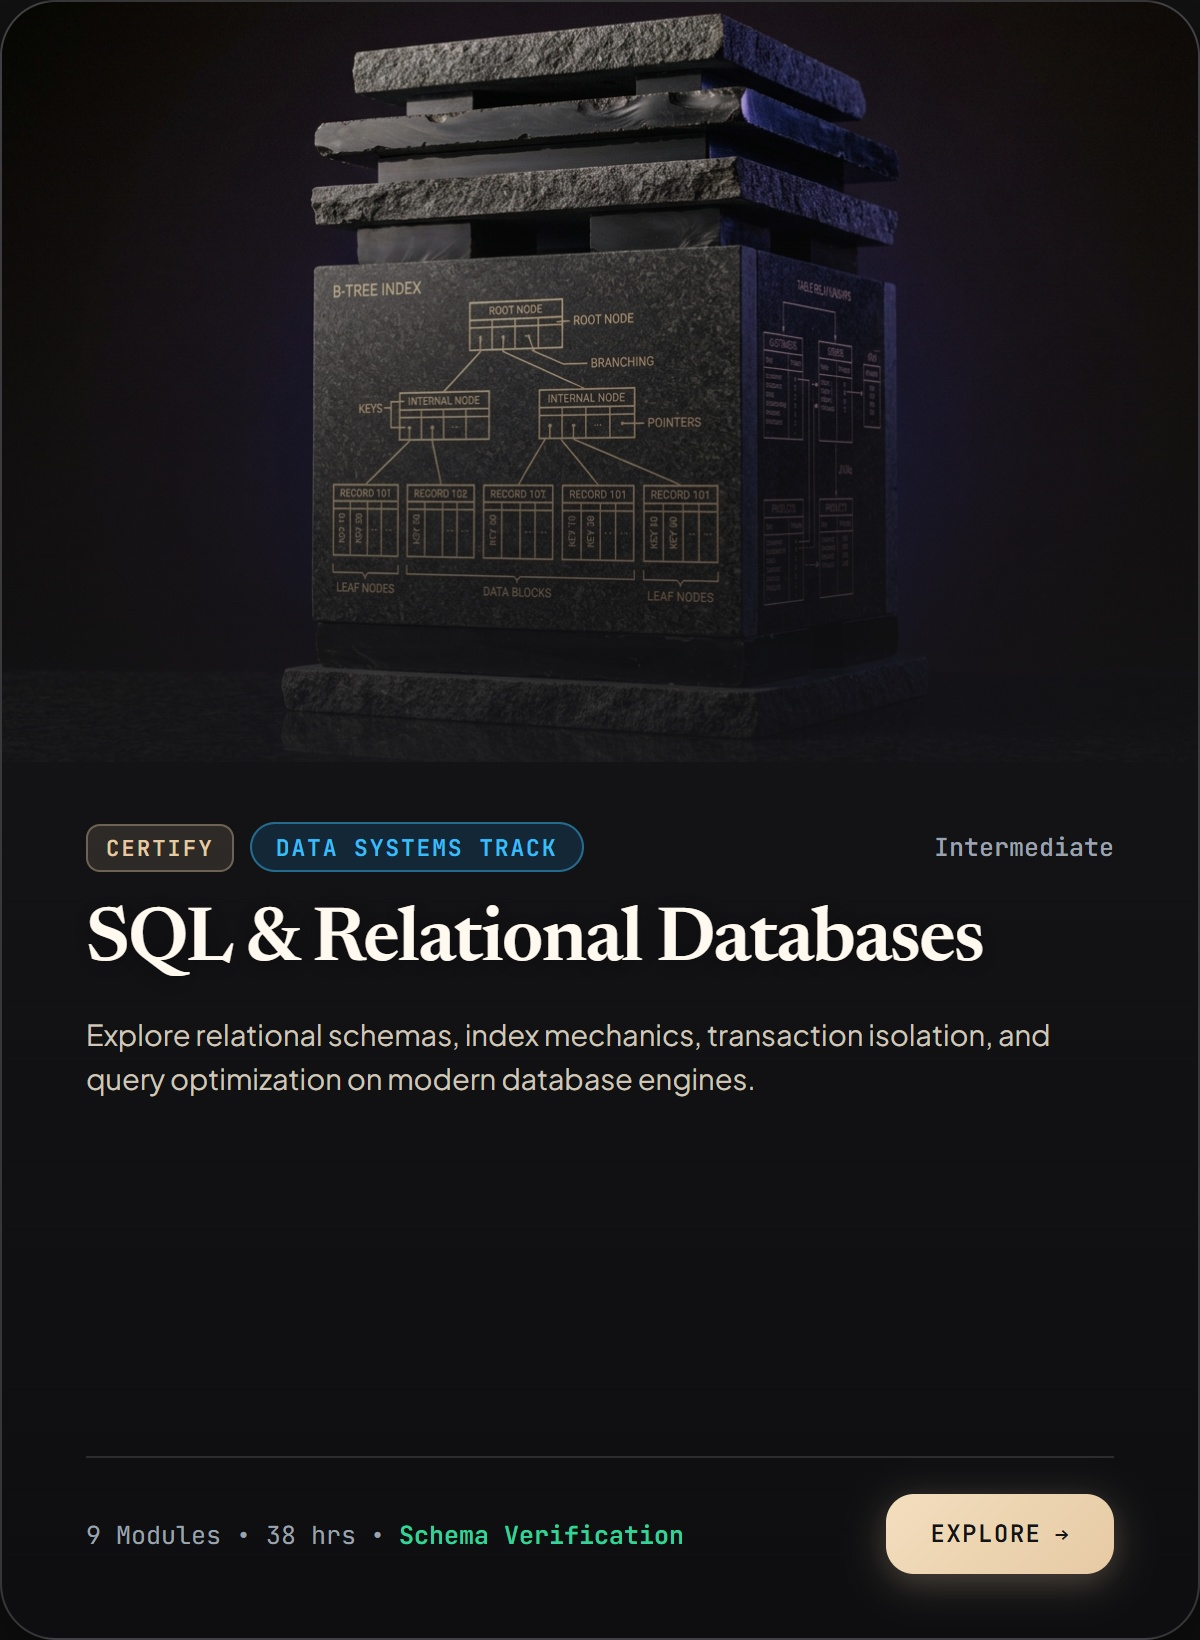
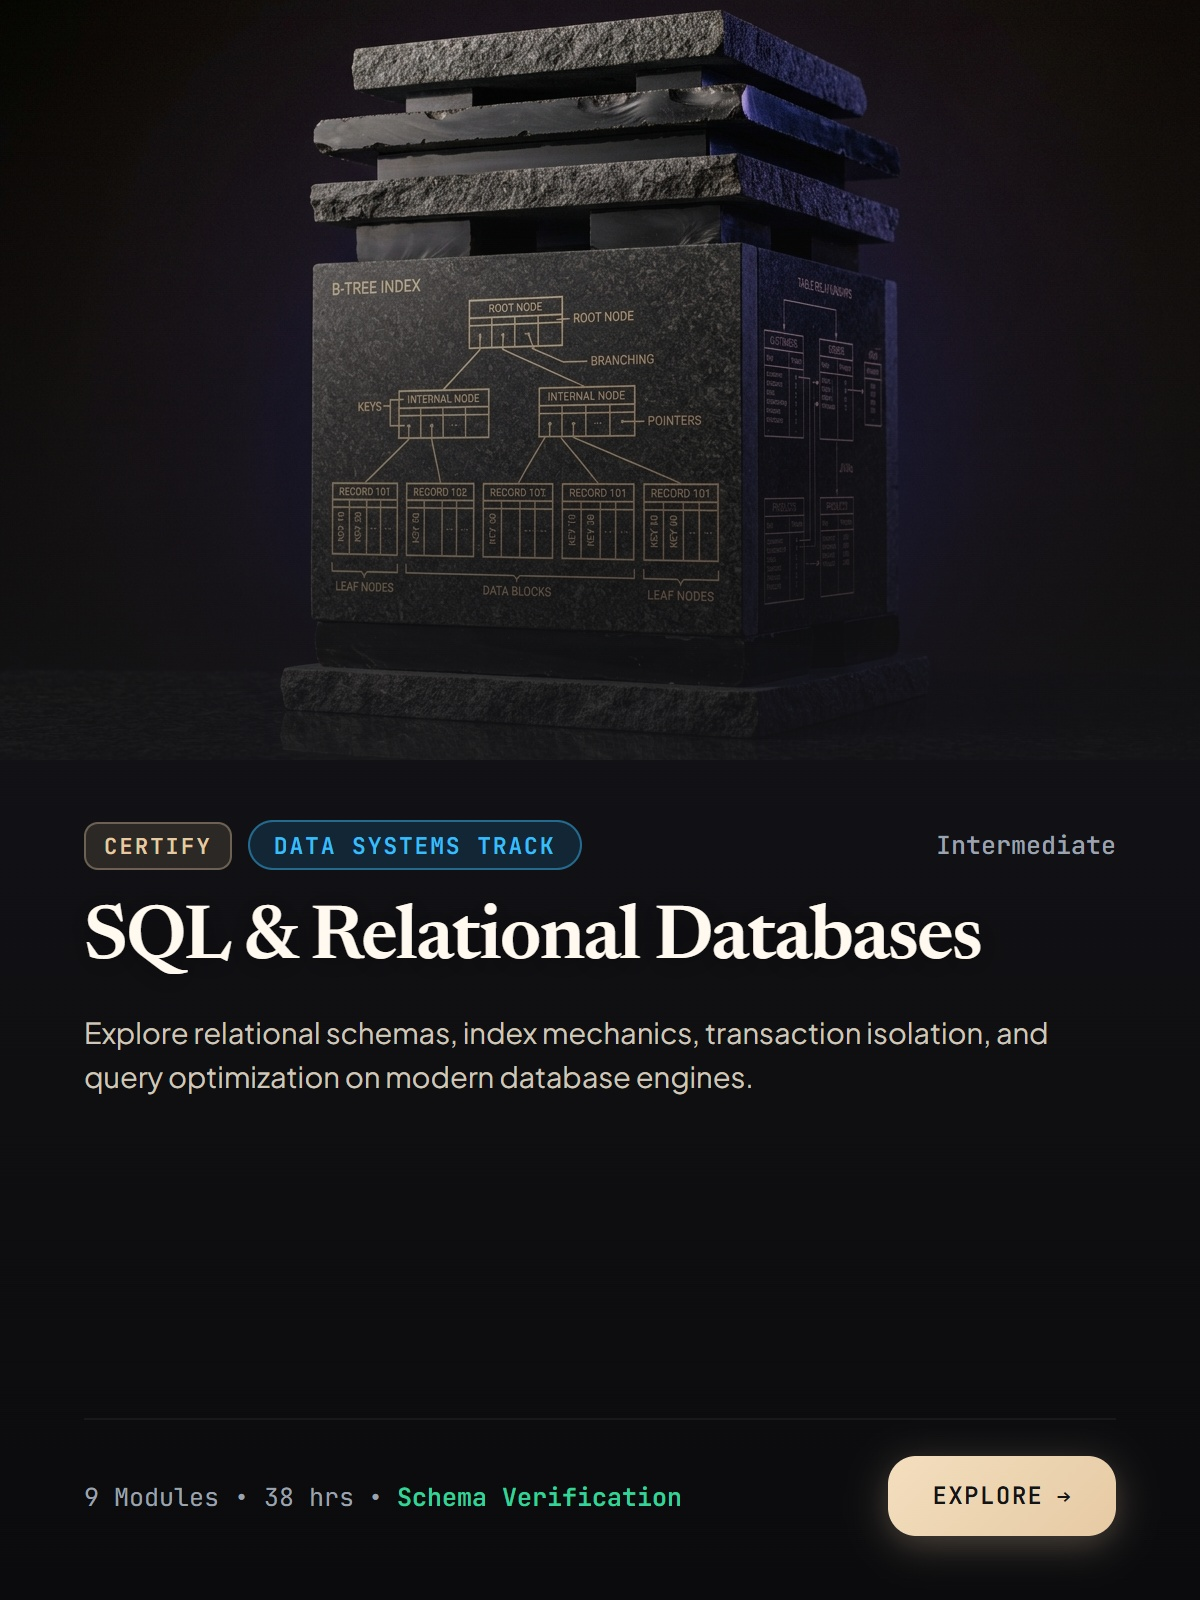
fix(carousel): eliminate white edge artifacts and apply full-bleed card rendering

diff --git a/frontend/src/components/landing/DraggableCurriculumCarousel.tsx b/frontend/src/components/landing/DraggableCurriculumCarousel.tsx
@@ -111,7 +111,7 @@ export const DraggableCurriculumCarousel: React.FC<DraggableCurriculumCarouselPr
             squeeze={0.29}
             focusOnClick
             captions={false}
-            radius={8}
+            radius={20}
             roundness={0.85}
             bend={0}
             autoplay
